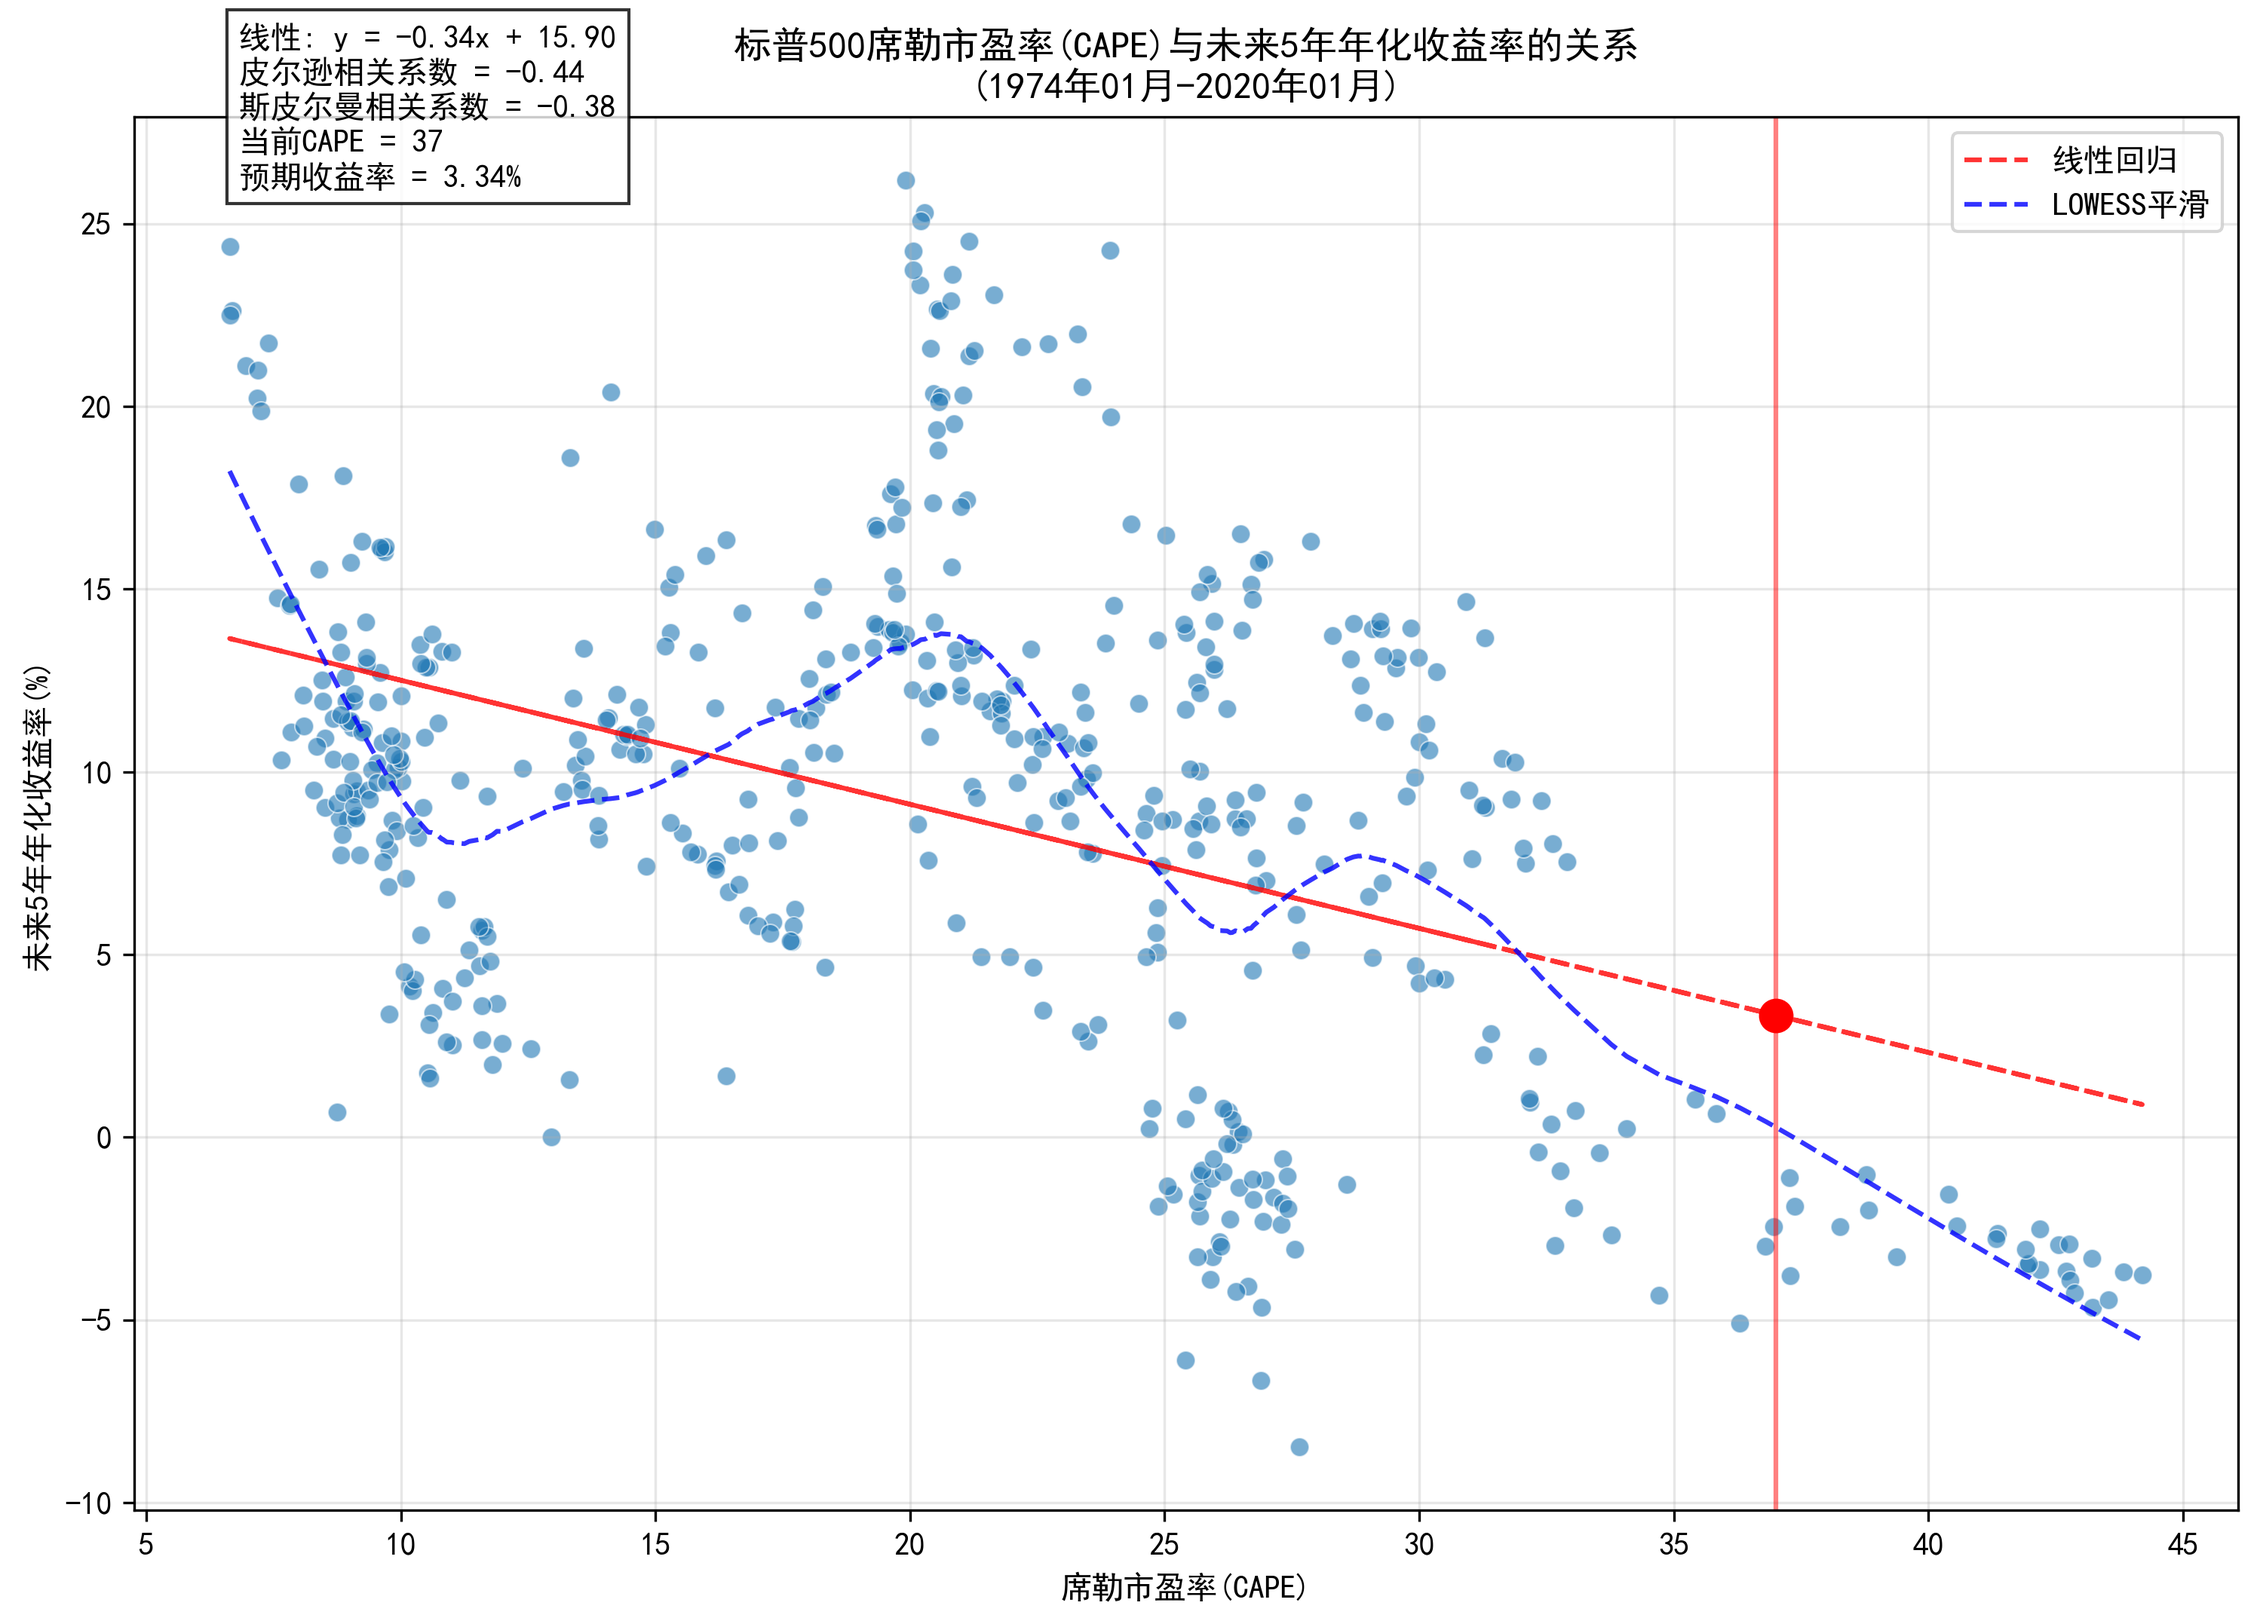
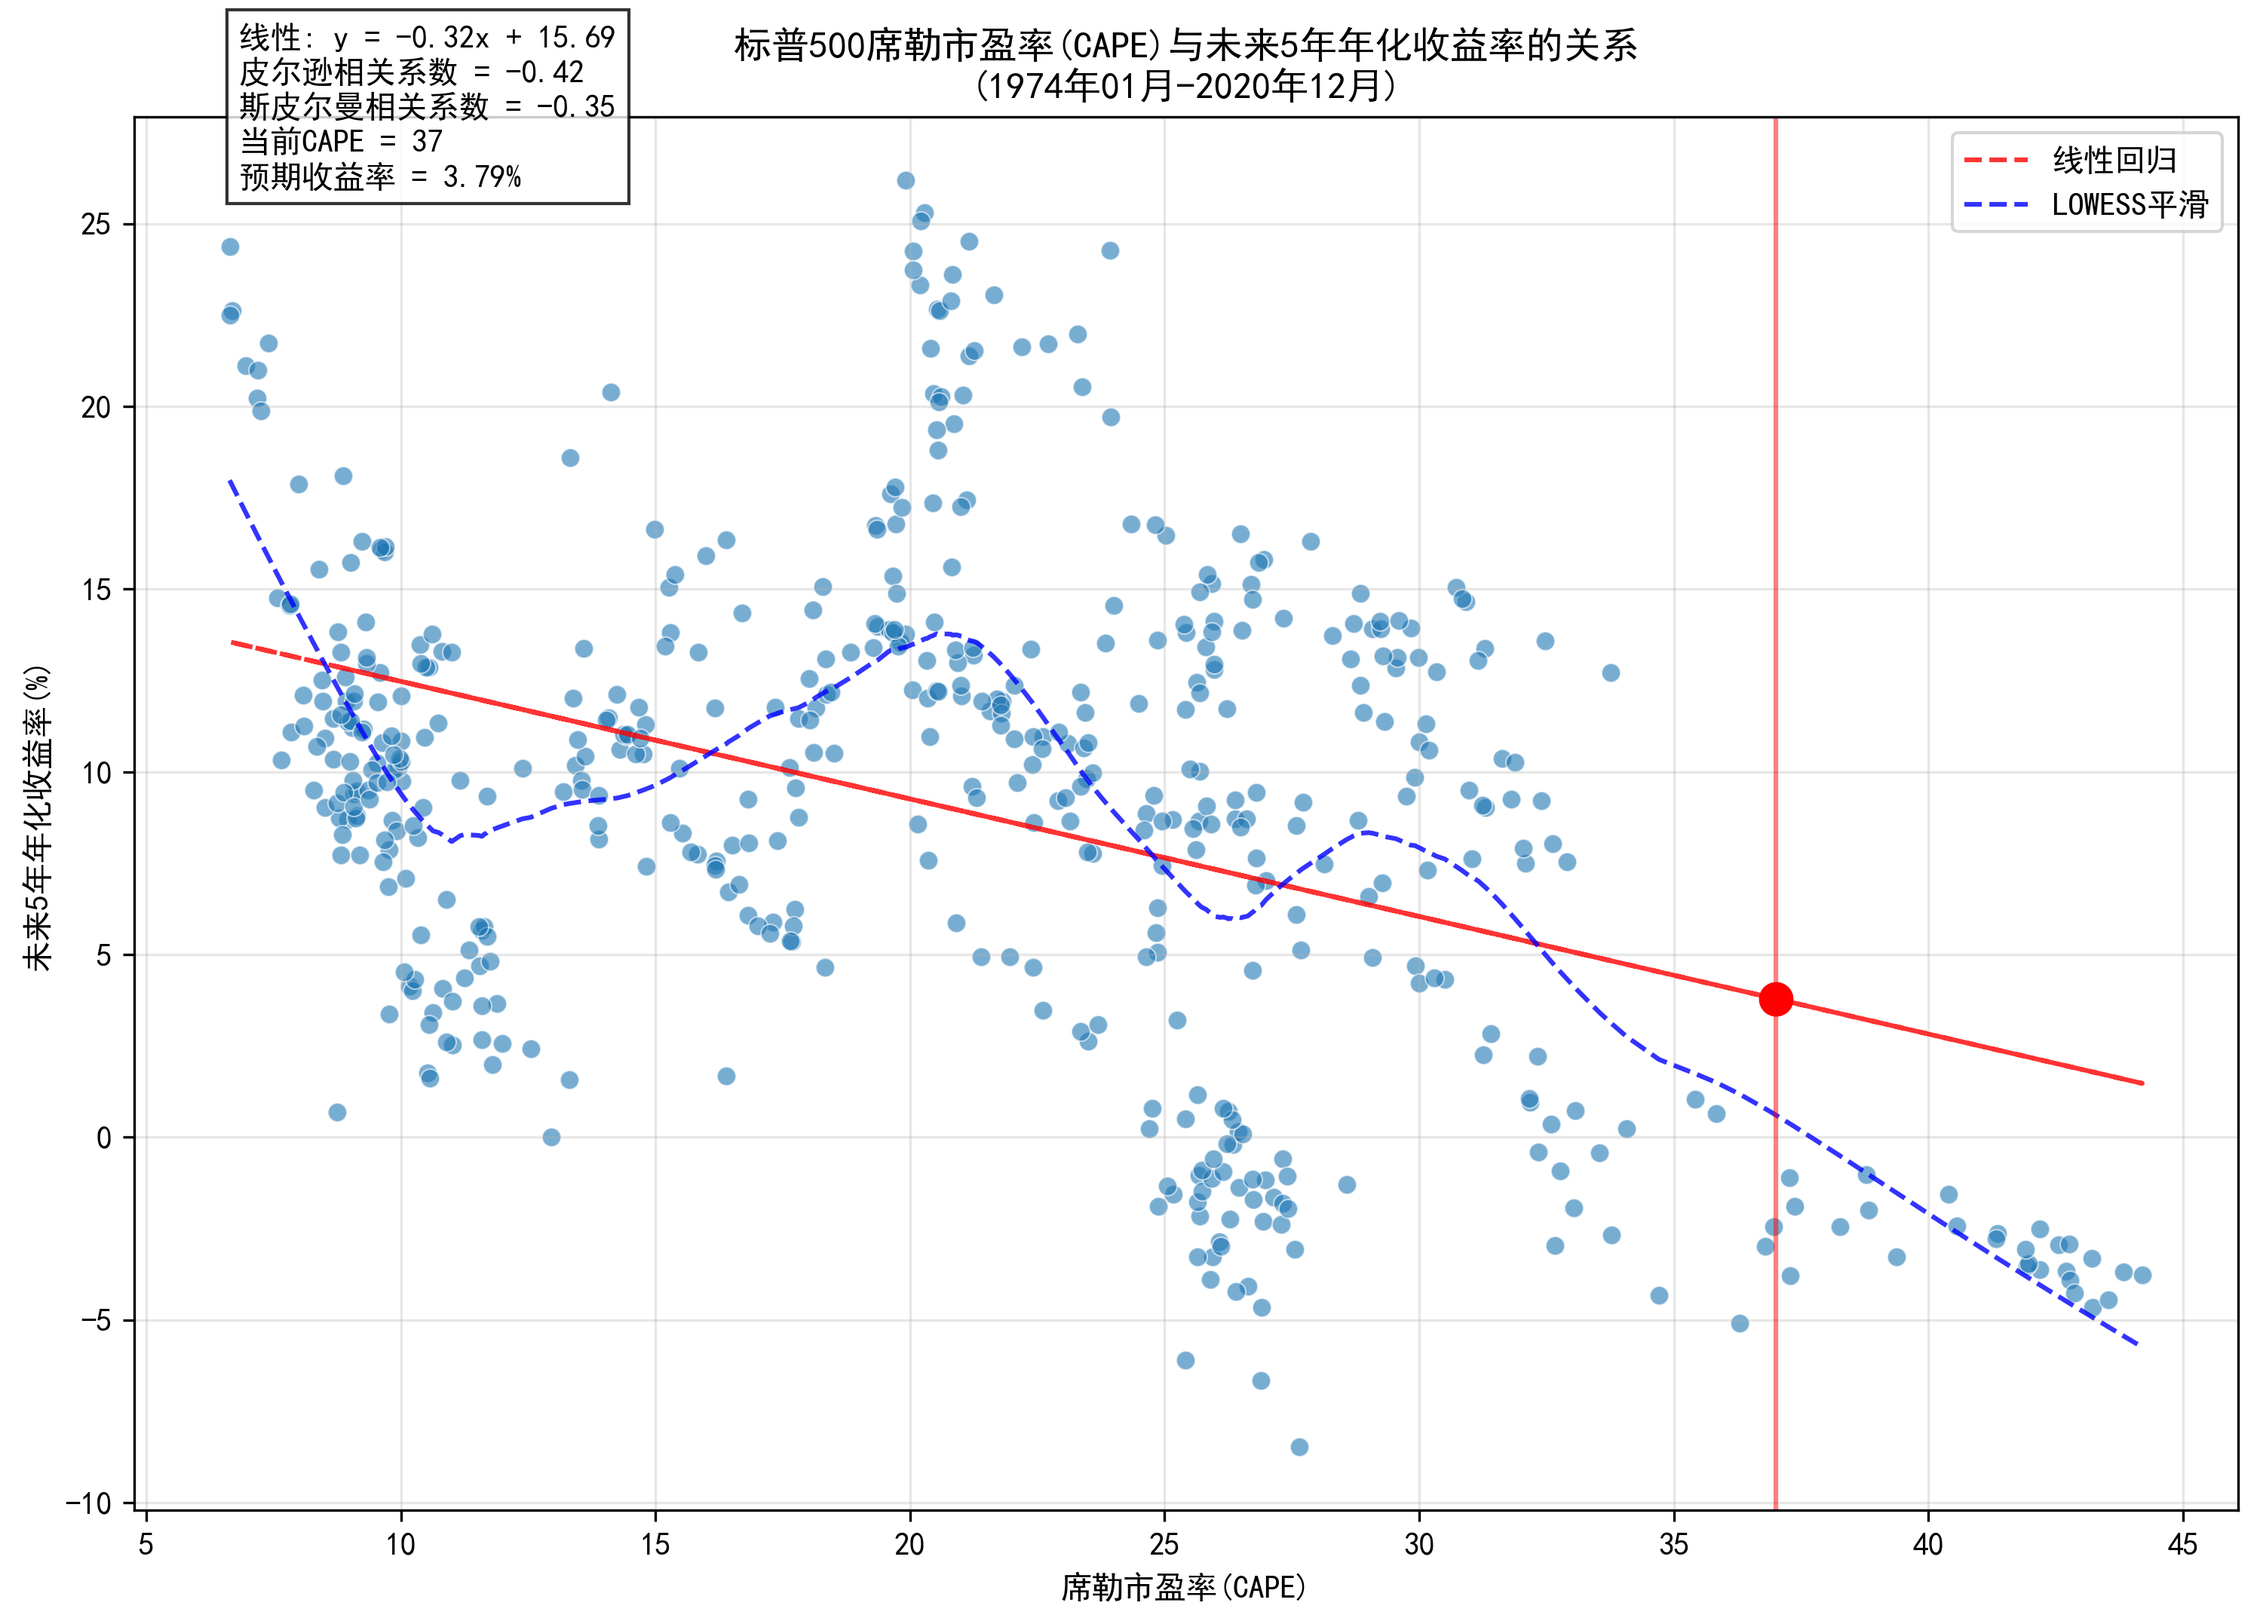
ok

diff --git a/sp500_cape_analysis/sp500_cape_returns.py b/sp500_cape_analysis/sp500_cape_returns.py
@@ -7,19 +7,32 @@ import requests
 import scipy.stats as stats
 from statsmodels.nonparametric.smoothers_lowess import lowess
 import os
+import time
 
 def get_sp500_data():
     """获取标普500数据，从1974年开始到现在"""
-    try:
-        sp500 = yf.download('^GSPC', start='1974-01-01', end=None)  # end=None 表示获取到最新数据
-        if sp500.empty:
-            raise Exception("获取标普500数据失败")
-        # 确保使用月末数据
-        monthly_data = sp500['Close'].resample('ME').last()
-        return monthly_data
-    except Exception as e:
-        print(f"获取标普500数据时出错: {str(e)}")
-        raise
+    max_retries = 5
+    for attempt in range(max_retries):
+        try:
+            print(f"  尝试下载 SP500 数据 (第 {attempt + 1}/{max_retries} 次)...")
+            # 不设置 session，让 yfinance 自己处理
+            ticker = yf.Ticker('^GSPC')
+            sp500 = ticker.history(start='1974-01-01', auto_adjust=True)
+            
+            if sp500.empty:
+                raise Exception("获取标普500数据失败")
+            # 确保使用月末数据
+            monthly_data = sp500['Close'].resample('M').last()
+            return monthly_data
+        except Exception as e:
+            print(f"  尝试 {attempt + 1}/{max_retries} 失败: {str(e)}")
+            if attempt < max_retries - 1:
+                wait_time = (attempt + 1) * 10  # 递增等待时间
+                print(f"  等待 {wait_time} 秒后重试...")
+                time.sleep(wait_time)
+            else:
+                print(f"获取标普500数据时出错: {str(e)}")
+                raise
 
 def get_shiller_cape():
     """从Robert Shiller的网站获取CAPE数据"""
@@ -50,7 +63,7 @@ def get_shiller_cape():
             df.set_index('Date', inplace=True)
             
             # 确保使用月末数据
-            df = df.resample('ME').last()
+            df = df.resample('M').last()
             
             # 删除临时文件
             os.remove('temp_shiller_data.xls')
@@ -81,6 +94,77 @@ def calculate_returns(prices, years=10):
             end_price = prices.iloc[i + years*12]
             returns.iloc[i] = (end_price / start_price) ** (1/years) - 1
     return returns * 100  # 转换为百分比
+
+def create_cape_price_comparison_plot(sp500_data, cape_data):
+    """创建CAPE和SP500股价的时间序列对比图"""
+    fig, ax1 = plt.subplots(figsize=(14, 8))
+    
+    # 统一时区（移除时区信息）
+    sp500_idx = sp500_data.index.tz_localize(None) if sp500_data.index.tz is not None else sp500_data.index
+    cape_idx = cape_data.index.tz_localize(None) if cape_data.index.tz is not None else cape_data.index
+    
+    sp500_data = sp500_data.copy()
+    sp500_data.index = sp500_idx
+    cape_data = cape_data.copy()
+    cape_data.index = cape_idx
+    
+    # 找到共同的时间范围
+    common_start = max(sp500_data.index.min(), cape_data.index.min())
+    common_end = min(sp500_data.index.max(), cape_data.index.max())
+    
+    # 筛选共同时间范围的数据
+    sp500_filtered = sp500_data[(sp500_data.index >= common_start) & (sp500_data.index <= common_end)]
+    cape_filtered = cape_data[(cape_data.index >= common_start) & (cape_data.index <= common_end)]
+    
+    # 删除缺失值并插值填充，避免图表断裂
+    sp500_filtered = sp500_filtered.dropna()
+    cape_filtered = cape_filtered.dropna()
+    
+    # 使用插值填充可能的缺失月份
+    sp500_filtered = sp500_filtered.asfreq('M').interpolate(method='linear')
+    cape_filtered = cape_filtered.asfreq('M').interpolate(method='linear')
+    
+    # 绘制SP500股价（左Y轴，使用对数刻度）
+    color1 = '#2E86AB'
+    ax1.set_xlabel('时间', fontsize=12)
+    ax1.set_ylabel('标普500指数', color=color1, fontsize=12)
+    ax1.semilogy(sp500_filtered.index, sp500_filtered.values, color=color1, linewidth=1.5, label='标普500指数')
+    ax1.tick_params(axis='y', labelcolor=color1)
+    ax1.set_ylim(bottom=sp500_filtered.min() * 0.8)
+    
+    # 创建右Y轴绘制CAPE
+    ax2 = ax1.twinx()
+    color2 = '#E94F37'
+    ax2.set_ylabel('CAPE (席勒市盈率)', color=color2, fontsize=12)
+    ax2.plot(cape_filtered.index, cape_filtered['CAPE'].values, color=color2, linewidth=1.5, alpha=0.8, label='CAPE')
+    ax2.tick_params(axis='y', labelcolor=color2)
+    
+    # 添加CAPE历史均值线
+    cape_mean = cape_filtered['CAPE'].mean()
+    ax2.axhline(y=cape_mean, color=color2, linestyle='--', alpha=0.5, linewidth=1)
+    ax2.text(cape_filtered.index[-1], cape_mean, f' 均值: {cape_mean:.1f}', 
+             color=color2, fontsize=10, va='center')
+    
+    # 设置标题
+    plt.title(f'标普500指数与CAPE历史走势对比\n({common_start.strftime("%Y年%m月")} - {common_end.strftime("%Y年%m月")})', 
+              fontsize=14, fontweight='bold')
+    
+    # 添加图例
+    lines1, labels1 = ax1.get_legend_handles_labels()
+    lines2, labels2 = ax2.get_legend_handles_labels()
+    ax1.legend(lines1 + lines2, labels1 + labels2, loc='upper left')
+    
+    # 添加网格
+    ax1.grid(True, alpha=0.3)
+    
+    # 调整布局
+    fig.tight_layout()
+    
+    # 保存图表
+    plt.savefig('sp500_cape_history.png', dpi=300, bbox_inches='tight')
+    plt.close()
+    
+    print(f"CAPE与股价对比图已保存为 sp500_cape_history.png")
 
 def create_scatter_plot(combined_data, years, current_cape=37):
     """创建散点图和拟合线"""
@@ -215,8 +299,16 @@ def main():
         print("正在获取CAPE数据...")
         cape_data = get_shiller_cape()
         
+        # 统一时区（移除时区信息）
+        if sp500_data.index.tz is not None:
+            sp500_data.index = sp500_data.index.tz_localize(None)
+        
         print(f"标普500数据范围：{sp500_data.index.min().strftime('%Y年%m月')} 至 {sp500_data.index.max().strftime('%Y年%m月')}")
         print(f"CAPE数据范围：{cape_data.index.min().strftime('%Y年%m月')} 至 {cape_data.index.max().strftime('%Y年%m月')}")
+        
+        # 生成CAPE与股价对比图
+        print("\n正在生成CAPE与股价对比图...")
+        create_cape_price_comparison_plot(sp500_data, cape_data)
         
         # 计算不同时期的收益率并分别分析
         print("\n正在计算和分析各期收益率...")

diff --git a/sp500_cape_analysis/analysis_report.md b/sp500_cape_analysis/analysis_report.md
@@ -4,11 +4,11 @@
 
 ### 各期数据统计
 1. **1年期**：1974年01月 至 2023年09月（548个数据点）
-2. **3年期**：1974年01月 至 2022年01月（529个数据点）
-3. **5年期**：1974年01月 至 2020年01月（507个数据点）
-4. **10年期**：1974年01月 至 2015年01月（452个数据点）
-5. **20年期**：1974年01月 至 2005年01月（342个数据点）
-6. **30年期**：1974年01月 至 1995年01月（232个数据点）
+2. **3年期**：1974年01月 至 2022年12月（539个数据点）
+3. **5年期**：1974年01月 至 2020年12月（517个数据点）
+4. **10年期**：1974年01月 至 2015年12月（462个数据点）
+5. **20年期**：1974年01月 至 2005年12月（352个数据点）
+6. **30年期**：1974年01月 至 1995年12月（242个数据点）
 
 ## 当前市场估值
 
@@ -27,40 +27,40 @@
 - R²值：0.02
 - 预期收益率：5.9%
 
-### 3年期（1974年01月 - 2022年01月）
-- 皮尔逊相关系数：-0.31
-- 斯皮尔曼相关系数：-0.22
-- 线性回归方程：y = -0.30x + 15.20
-- R²值：0.10
-- 预期收益率：4.2%
+### 3年期（1974年01月 - 2022年12月）
+- 皮尔逊相关系数：-0.29
+- 斯皮尔曼相关系数：-0.19
+- 线性回归方程：y = -0.28x + 15.00
+- R²值：0.08
+- 预期收益率：4.7%
 
-### 5年期（1974年01月 - 2020年01月）
-- 皮尔逊相关系数：-0.44
-- 斯皮尔曼相关系数：-0.38
-- 线性回归方程：y = -0.34x + 15.90
-- R²值：0.20
-- 预期收益率：3.3%
+### 5年期（1974年01月 - 2020年12月）
+- 皮尔逊相关系数：-0.42
+- 斯皮尔曼相关系数：-0.35
+- 线性回归方程：y = -0.32x + 15.69
+- R²值：0.18
+- 预期收益率：3.8%
 
-### 10年期（1974年01月 - 2015年01月）
-- 皮尔逊相关系数：-0.78
-- 斯皮尔曼相关系数：-0.69
-- 线性回归方程：y = -0.39x + 16.37
-- R²值：0.61
-- 预期收益率：2.0%
+### 10年期（1974年01月 - 2015年12月）
+- 皮尔逊相关系数：-0.76
+- 斯皮尔曼相关系数：-0.66
+- 线性回归方程：y = -0.38x + 16.30
+- R²值：0.58
+- 预期收益率：2.3%
 
-### 20年期（1974年01月 - 2005年01月）
-- 皮尔逊相关系数：-0.82
-- 斯皮尔曼相关系数：-0.87
-- 线性回归方程：y = -0.22x + 12.38
-- R²值：0.67
-- 预期收益率：4.3%
+### 20年期（1974年01月 - 2005年12月）
+- 皮尔逊相关系数：-0.81
+- 斯皮尔曼相关系数：-0.86
+- 线性回归方程：y = -0.22x + 12.36
+- R²值：0.65
+- 预期收益率：4.4%
 
-### 30年期（1974年01月 - 1995年01月）
-- 皮尔逊相关系数：-0.32
-- 斯皮尔曼相关系数：-0.24
-- 线性回归方程：y = -0.05x + 8.90
-- R²值：0.10
-- 预期收益率：7.1%
+### 30年期（1974年01月 - 1995年12月）
+- 皮尔逊相关系数：-0.27
+- 斯皮尔曼相关系数：-0.20
+- 线性回归方程：y = -0.04x + 8.77
+- R²值：0.07
+- 预期收益率：7.4%
 
 ## CAPE分位与收益率分析
 
@@ -93,6 +93,9 @@
 5. 低CAPE时期的投资回报普遍优于高CAPE时期，这种差异在各个时间跨度上都很明显
 
 ## 数据可视化
+
+### 标普500指数与CAPE历史走势对比
+![标普500与CAPE历史走势](sp500_cape_history.png)
 
 ### CAPE与未来1年收益率关系
 ![CAPE与未来1年收益率关系图](sp500_cape_returns_1y.png)

diff --git a/sp500_cape_analysis/report_template.md b/sp500_cape_analysis/report_template.md
@@ -94,6 +94,9 @@
 
 ## 数据可视化
 
+### 标普500指数与CAPE历史走势对比
+![标普500与CAPE历史走势](sp500_cape_history.png)
+
 ### CAPE与未来1年收益率关系
 ![CAPE与未来1年收益率关系图](sp500_cape_returns_1y.png)
 
